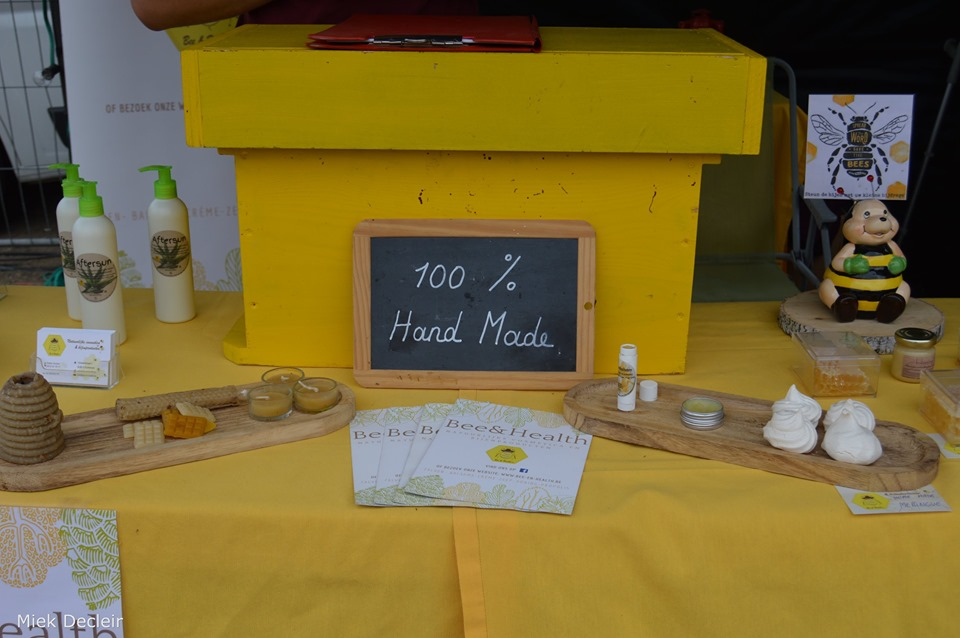
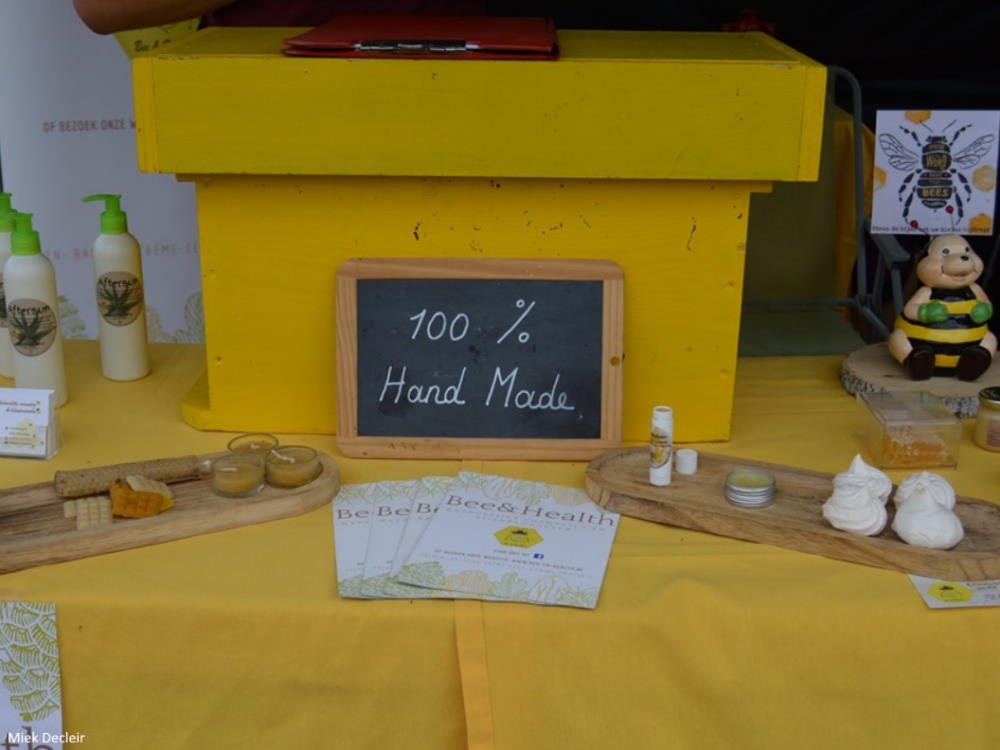
add bee health

diff --git a/src/lineup/thursday.php b/src/lineup/thursday.php
@@ -21,11 +21,11 @@
             <div class="col-12"> <!--Change to Col-6 when teaser is over-->
                 <div class="text-white bg-dark px-1 rounded h4">TEASER</div>
                 <picture>
-                    <source srcset="/src/img/artists/.webp" type="image/webp">
-                    <source srcset="/src/img/artists/.jpg" type="image/jpeg">
-                    <img alt="" class="img-fluid rounded img-container" src="/src/img/artists/.jpg"/>
+                    <source srcset="/src/img/artists/bee-health.webp" type="image/webp">
+                    <source srcset="/src/img/artists/bee-health.jpg" type="image/jpeg">
+                    <img alt="" class="img-fluid rounded img-container" src="/src/img/artists/bee-health.jpg"/>
                 </picture>
-                <a class="d-block text-center pt-2" href="#">#</a>
+                <a class="d-block text-center pt-2" href="https://www.bee-en-health.be/algemeen/beehealth/">Bee & Health</a>
             </div>
         </div>
     </div>
